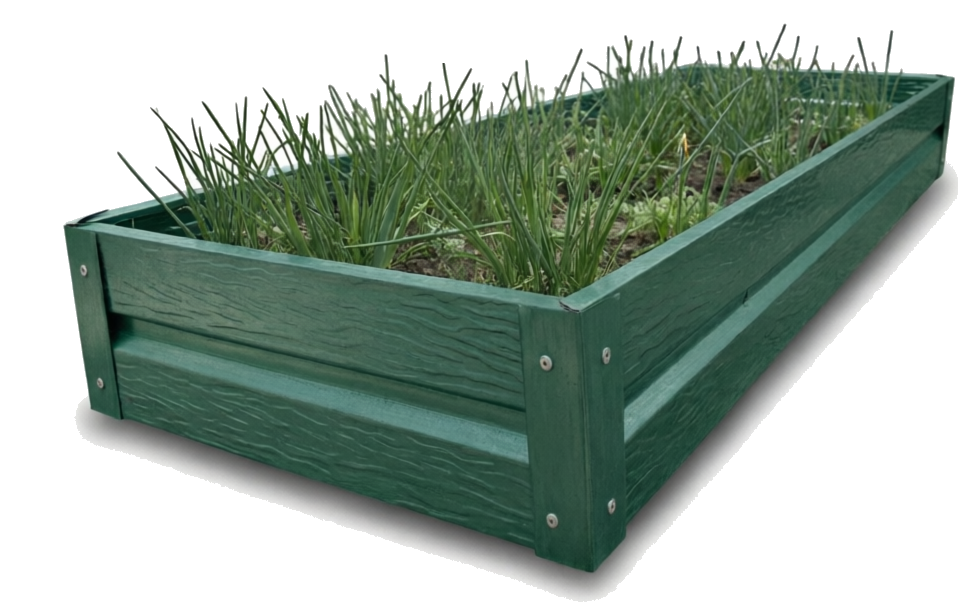
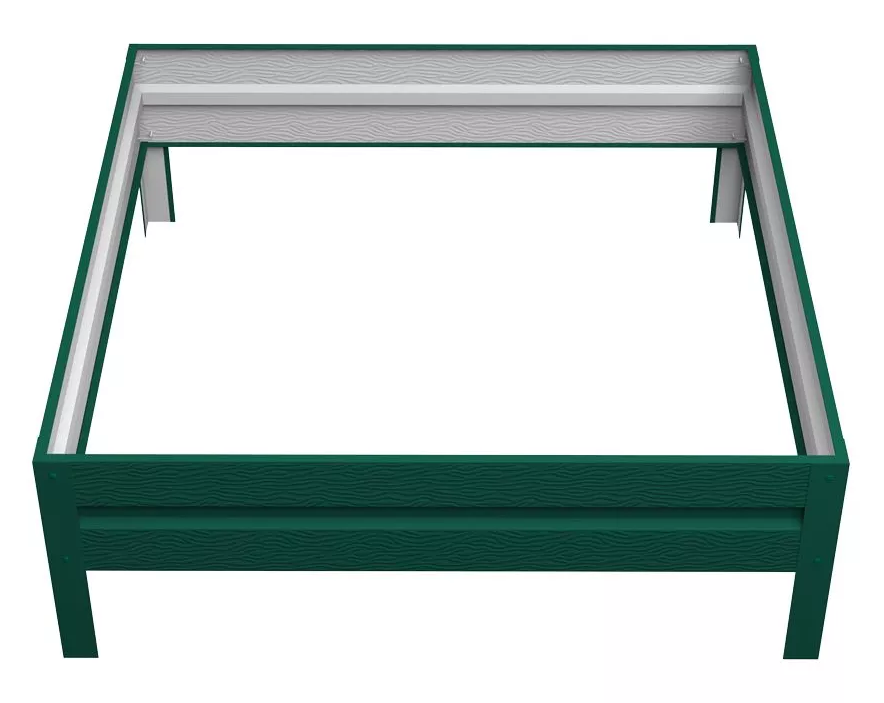
Грядки/клумбы: фото «под дерево», цвета и толщина по sib-profil
По данным конфигуратора sib-profil:
- Толщина: грядка 0,45 мм (была 0,45–0,5), клумба 0,50 мм.
- «Под дерево» — только 2 цвета (Дуб 3D Атланта, Дуб 3D Бренди) вместо 6,
  и у грядки, и у клумбы.
- Грядка: при выборе покрытия фото меняется (Полимер → зелёная,
  Под дерево → дубовая) — реальные рендеры sib-profil, согласованная пара
  (тот же ракурс, чистые, без вотермарок). Своп в обработчике покрытия
  (swapGardenPhoto), photo проброшен в каждое покрытие.
- gen_gryadka.png заменён на чистый зелёный рендер; добавлен gen_gryadka_wood.png.

Клумба: фото «под дерево» с чистым видом у партнёра не нашлось (jpg-галерея
с вотермарками «Сибирский профиль» — публиковать нельзя), оставлено текущее.

diff --git a/catalog.html b/catalog.html
@@ -1166,22 +1166,22 @@ const JALUZI_PRODUCTS = [
    Карточки с выбором покрытия (→ меняет цвета) + размеры; цена = f(покрытие × размеры).
    Данные/цвета/цены — с реального конфигуратора sib-profil (Bitrix-офферы). Ключ цены = значения dims через "|". */
 const GARDEN_PRODUCTS = [
-  { sub:'Грядка', name:'Грядка «Фактурная»', unit:'шт', photo:'assets/gen_gryadka.png', statics:[{label:'Высота грядки',value:'190 мм'},{label:'Толщина',value:'0,45–0,5 мм'}], meta:'Грядка металлическая фактурная',
+  { sub:'Грядка', name:'Грядка «Фактурная»', unit:'шт', photo:'assets/gen_gryadka.png', statics:[{label:'Высота грядки',value:'190 мм'},{label:'Толщина',value:'0,45 мм'}], meta:'Грядка металлическая фактурная',
     dims:[
       {kind:'width',  label:'Ширина', options:[{value:'400',label:'400 мм'},{value:'600',label:'600 мм'},{value:'800',label:'800 мм'},{value:'1000',label:'1000 мм'}]},
       {kind:'length', label:'Длина',  options:[{value:'1000',label:'1000 мм'},{value:'1840',label:'1840 мм'},{value:'2000',label:'2000 мм'}]},
     ],
     coatings:[
-      {name:'Полимер', colors:['6005','7024','8017'], price:{'400|1000':848,'400|1840':1249,'400|2000':1319,'600|1000':942,'600|1840':1343,'600|2000':1413,'800|1000':1030,'800|1840':1432,'800|2000':1502,'1000|1000':1125,'1000|1840':1526,'1000|2000':1596}},
-      {name:'Под дерево', colors:['Дуб 3D Атланта','Дуб 3D Бренди','Дуб 3D (W001)','Золотой орех 3D (W003)','Античный дуб R (W004)','Орех (W005)'], price:{'400|1000':1147,'400|1840':1697,'400|2000':1792,'600|1000':1276,'600|1840':1826,'600|2000':1921,'800|1000':1397,'800|1840':1947,'800|2000':2043,'1000|1000':1526,'1000|1840':2076,'1000|2000':2172}},
+      {name:'Полимер', photo:'assets/gen_gryadka.png', colors:['6005','7024','8017'], price:{'400|1000':848,'400|1840':1249,'400|2000':1319,'600|1000':942,'600|1840':1343,'600|2000':1413,'800|1000':1030,'800|1840':1432,'800|2000':1502,'1000|1000':1125,'1000|1840':1526,'1000|2000':1596}},
+      {name:'Под дерево', photo:'assets/gen_gryadka_wood.png', colors:['Дуб 3D Атланта','Дуб 3D Бренди'], price:{'400|1000':1147,'400|1840':1697,'400|2000':1792,'600|1000':1276,'600|1840':1826,'600|2000':1921,'800|1000':1397,'800|1840':1947,'800|2000':2043,'1000|1000':1526,'1000|1840':2076,'1000|2000':2172}},
     ] },
-  { sub:'Клумба', name:'Клумба «Фактурная»', unit:'шт', photo:'assets/gen_klumba.png', statics:[{label:'Форма',value:'Круглая'},{label:'Толщина',value:'0,45–0,5 мм'}], meta:'Клумба металлическая фактурная',
+  { sub:'Клумба', name:'Клумба «Фактурная»', unit:'шт', photo:'assets/gen_klumba.png', statics:[{label:'Форма',value:'Круглая'},{label:'Толщина',value:'0,50 мм'}], meta:'Клумба металлическая фактурная',
     dims:[
       {kind:'width', label:'Ширина', options:[{value:'400',label:'400 мм'},{value:'600',label:'600 мм'},{value:'800',label:'800 мм'},{value:'1000',label:'1000 мм'}]},
     ],
     coatings:[
       {name:'Полимер', colors:['6005','7024','8017'], price:{'400':856,'600':1139,'800':1404,'1000':1687}},
-      {name:'Под дерево', colors:['Дуб 3D Атланта','Дуб 3D Бренди','Дуб 3D (W001)','Золотой орех 3D (W003)','Античный дуб R (W004)','Орех (W005)'], price:{'400':1151,'600':1538,'800':1902,'1000':2289}},
+      {name:'Под дерево', colors:['Дуб 3D Атланта','Дуб 3D Бренди'], price:{'400':1151,'600':1538,'800':1902,'1000':2289}},
     ] },
 ];
 
@@ -1542,7 +1542,7 @@ $grid.addEventListener('click', e => {
     }
     // грядки/клумбы: покрытие → цвета + цена; размеры → цена
     if (card && card.classList.contains('gd-card')) {
-      if (dd.dataset.kind === 'coating') { rebuildGardenColors(card); updateGardenPrice(card); }
+      if (dd.dataset.kind === 'coating') { rebuildGardenColors(card); updateGardenPrice(card); swapGardenPhoto(card); }
       else { updateGardenPrice(card); }
     }
     return;
@@ -2035,7 +2035,7 @@ function renderGarden($toolbar){
 }
 
 function gardenCardHTML(p){
-  const coatings = p.coatings.map(c => ({ name:c.name, colors:c.colors.map(fenceColorObj), price:c.price }));
+  const coatings = p.coatings.map(c => ({ name:c.name, photo:c.photo, colors:c.colors.map(fenceColorObj), price:c.price }));
   const c0 = coatings[0], col0 = c0.colors[0];
   const dimVals = p.dims.map(d => d.options[0].value);
   const price = c0.price[dimVals.join('|')];
@@ -2072,6 +2072,12 @@ function gardenCoatOf(card){
   const data = JSON.parse(card.dataset.garden);
   const coatName = card.querySelector('.dropdown[data-kind="coating"] .val').dataset.value;
   return { data, coat: data.coatings.find(c => c.name === coatName) };
+}
+// смена покрытия → подменить фото (полимер ↔ под дерево), если у покрытия есть своё фото
+function swapGardenPhoto(card){
+  const { coat } = gardenCoatOf(card);
+  const img = card.querySelector('.media-slot img');
+  if (img && coat && coat.photo) img.src = coat.photo;
 }
 // смена покрытия → пересобрать цвета под покрытие
 function rebuildGardenColors(card){